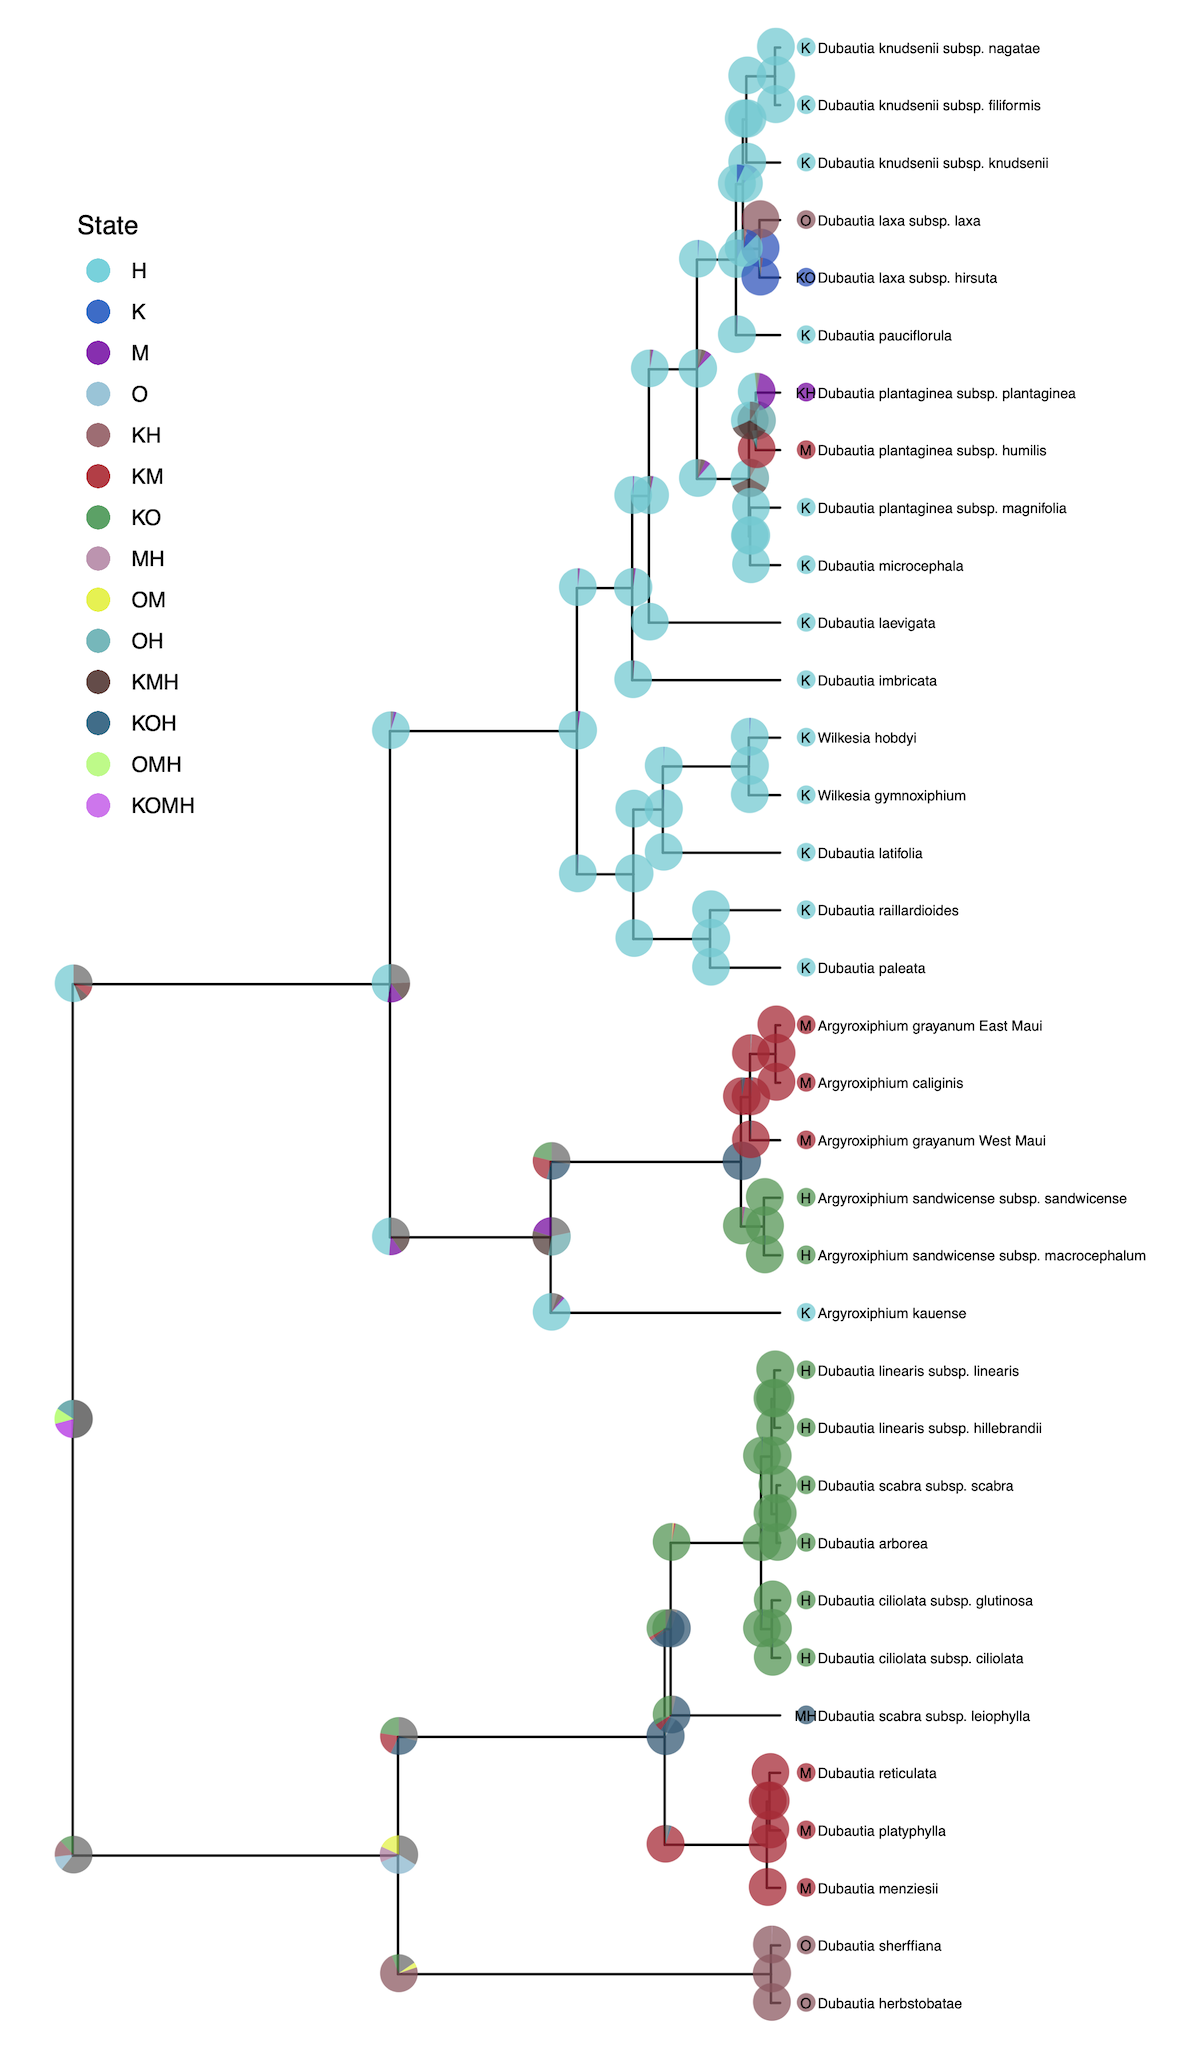
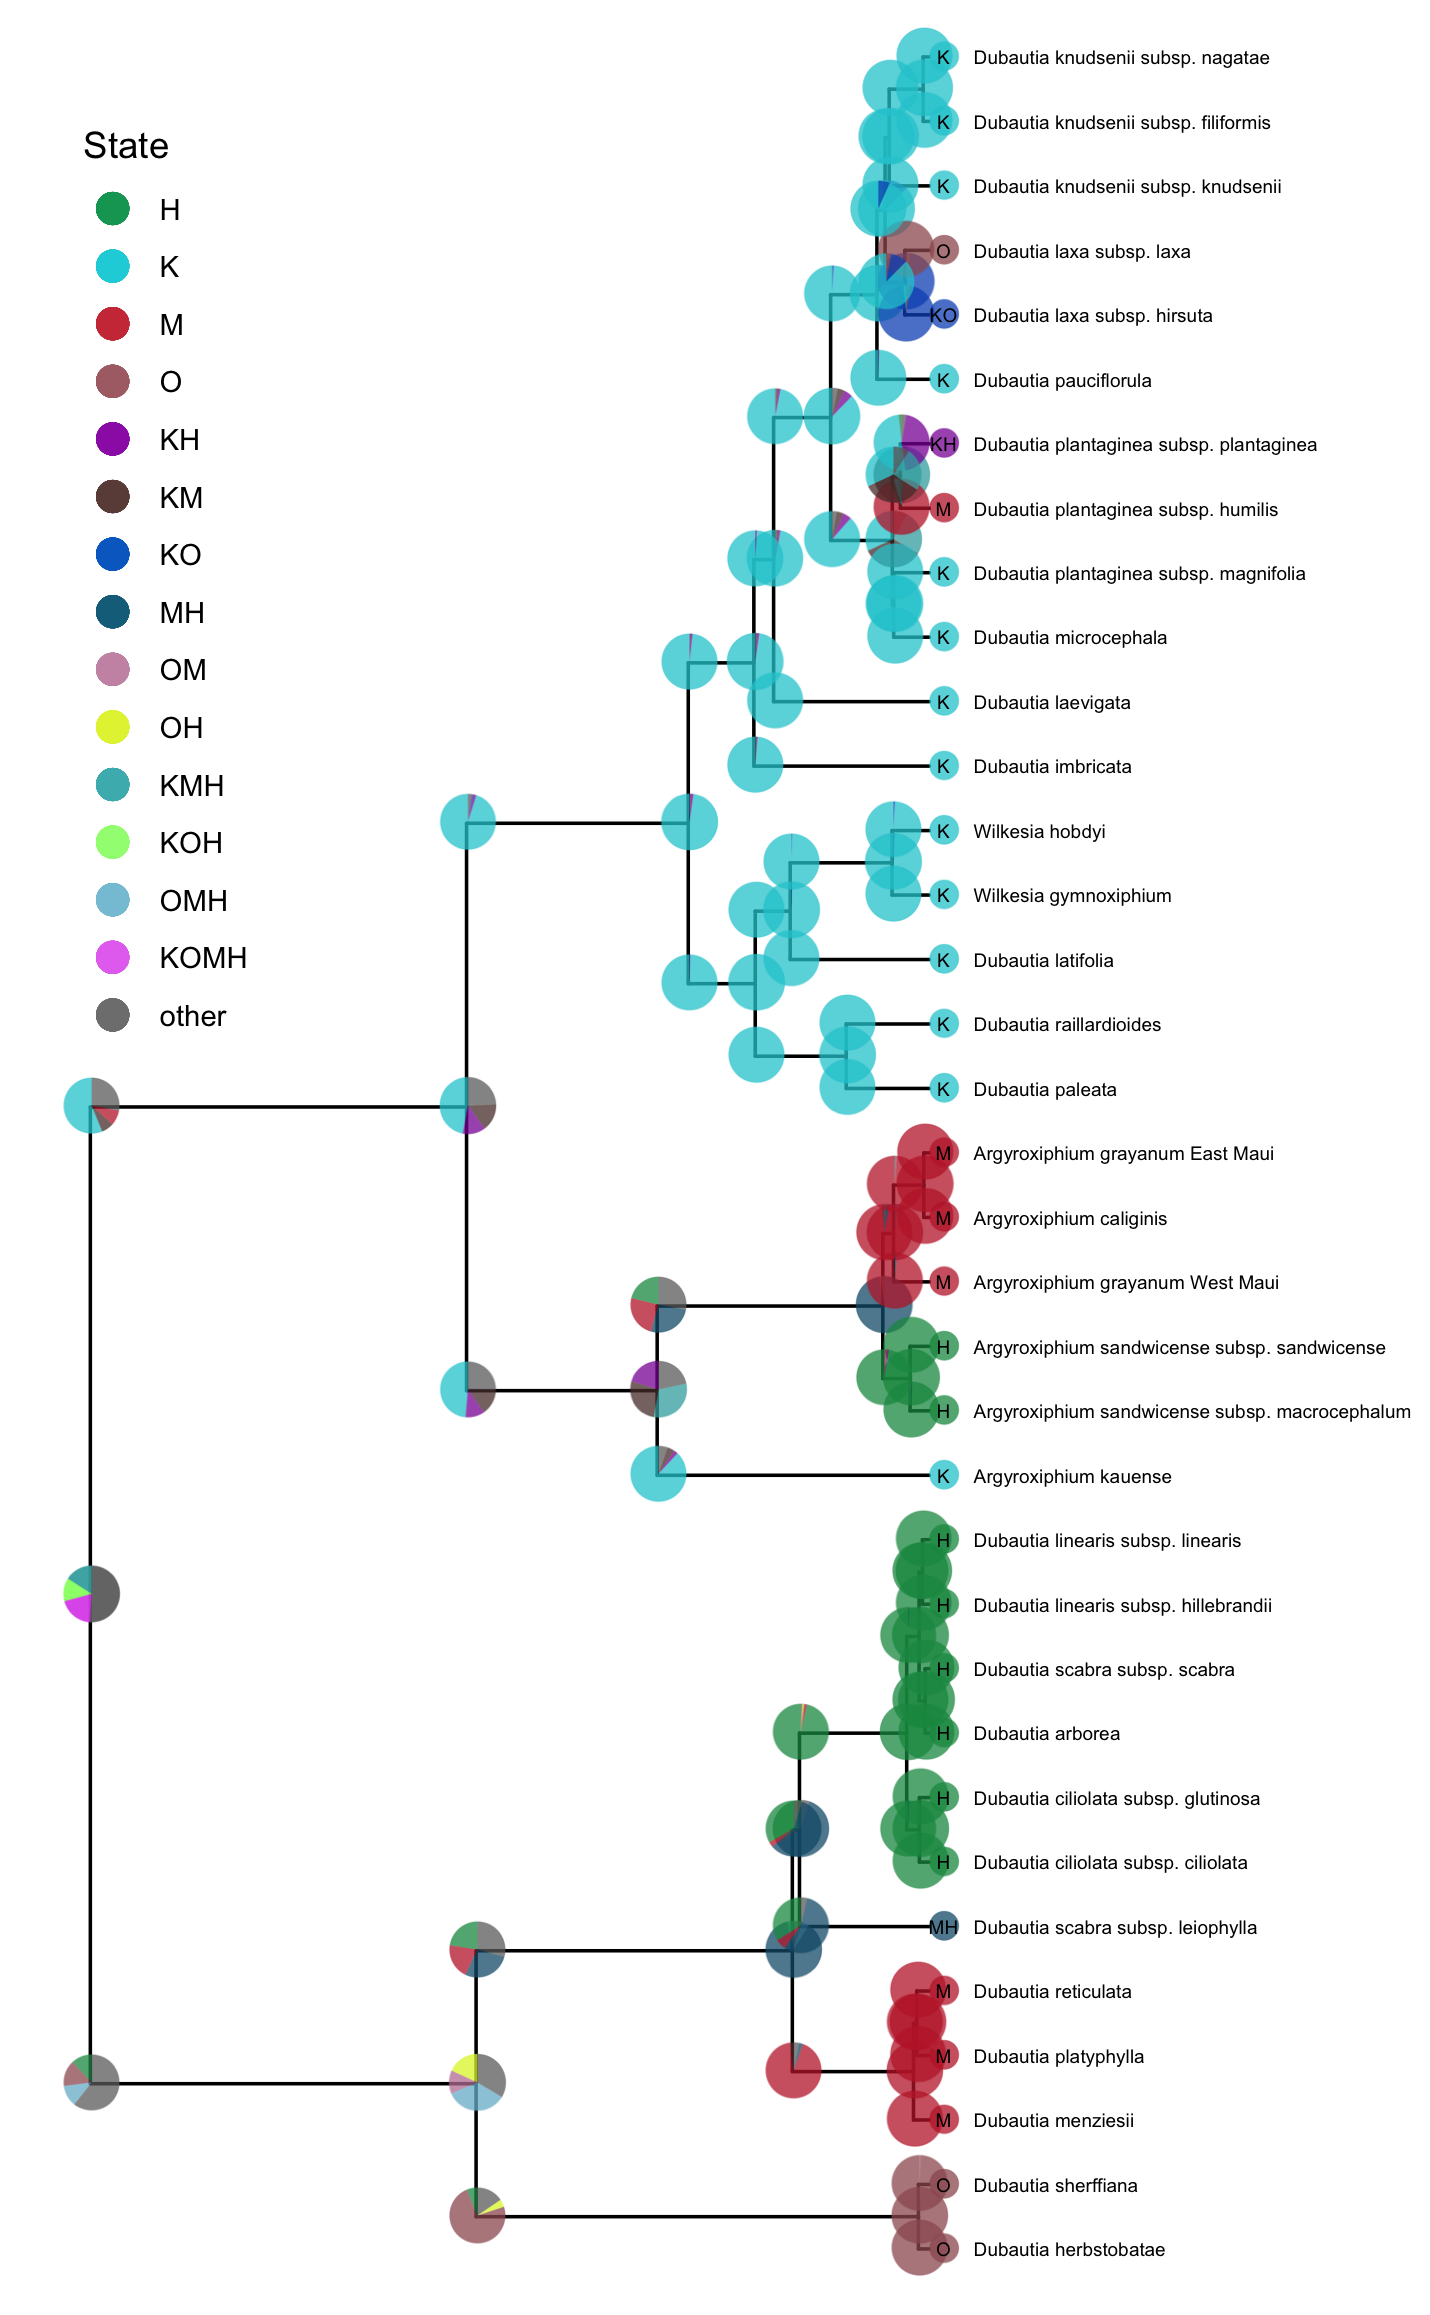
updating for changes in revgadgets

Changed region(s): [[0.0308, 0.0, 0.9867, 0.9956], [0.3083, 0.3422, 0.37, 0.6223], [0.4317, 0.5289, 0.4933, 0.6534]]

diff --git a/tutorials/intro/revgadgets.md b/tutorials/intro/revgadgets.md
@@ -113,9 +113,10 @@ The output of `readTrace()` may be passed to `R` packages specializing in MCMC d
 For example:
 ```R
 # assess convergence with coda 
-trace_quant_MCMC <- coda::as.mcmc(trace_quant[[1]])
-coda::effectiveSize(trace_quant_MCMC)
-coda::traceplot(trace_quant_MCMC)
+library(coda)
+trace_quant_MCMC <- as.mcmc(trace_quant[[1]])
+effectiveSize(trace_quant_MCMC)
+traceplot(trace_quant_MCMC)
 ```
 
 Alternatively, use the `R` package `convenience` (described here: {% page_ref convergence %}) to assess convergence before processing the data with `RevGadgets`. 
@@ -148,9 +149,9 @@ $`pi[4]`$trace_1
 
 ```
 
-Then plot these distributions:
+Then plot these distributions. `plotTrace()` produces a list of ggplot2 objects, with multiple plots if there are multiple runs in the trace object or if you provide a mix of quantitative and qualitative parameters. Here, only one plot is produced. 
 ```R
-plotTrace(trace = trace_quant, vars = c("pi[1]","pi[2]","pi[3]","pi[4]"))
+plotTrace(trace = trace_quant, vars = c("pi[1]","pi[2]","pi[3]","pi[4]"))[[1]]
 ```
 
 {% figure %}
@@ -187,7 +188,7 @@ Then plot the distributions as histograms:
 ```R
 plotTrace(trace = trace_qual, 
           vars = c("prob_rate_12", "prob_rate_13",
-                   "prob_rate_31", "prob_rate_32"))
+                   "prob_rate_31", "prob_rate_32"))[[1]]
 ```
 
 {% figure %}
@@ -220,16 +221,24 @@ tree <- readTrees(paths = file)
 ```
 `rerootPhylo()` roots the tree and `plotTree()` produces a basic tree plot, which may be modified by changing the formatting of tip labels, adjusting tree line width, and adding posterior probabilities of nodes as internal node labels. This plot object is modifiable in the same way as `ggplot`. Here, we add a scale bar: 
 ```R
+# reroot the tree with Galeopterus variegatus 
+# you can also specify multiple tips to reroot using a clade
 tree_rooted <- rerootPhylo(tree = tree, outgroup = "Galeopterus_variegatus")
 
+# create the plot of the rooted tree
 plot <- plotTree(tree = tree_rooted,
+                 # label nodes the with posterior probabilities
 	             node_labels = "posterior", 
+                 # offset the node labels from the nodes
                  node_labels_offset = 0.005,
-				 node_labels_size = 3, 
+                 # make tree lines more narrow
                  line_width = 0.5,
+                 # italicize tip labels 
 				 tip_labels_italics = TRUE)
 
-plot + ggtree::geom_treescale(x = -0.35, y = -1)
+# add scale bar to the tree and plot
+library(ggtree)
+plot + geom_treescale(x = -0.35, y = -1)
 ```
 
 {% figure %}
@@ -247,18 +256,24 @@ RevGadgets elaborates on the `plotTree` to plot fossilized birth death analyses,
 
 ```R
 file <- "data/bears.mcc.tre"
+
+# read in the tree 
 tree <- readTrees(paths = file)
-plot <- plotFBDTree(tree = tree, 
-                    timeline = TRUE, 
-                    geo_units = "epochs",
-                    tip_labels_italics = TRUE,
-                    tip_labels_remove_underscore = TRUE,
-                    tip_labels_size = 3, 
-                    tip_age_bars = TRUE,
-                    node_age_bars = TRUE, 
-                    age_bars_colored_by = "posterior",
-                    label_sampled_ancs = TRUE) + 
-            theme(legend.position=c(.05, .6))
+
+# plot the FBD tree
+plotFBDTree(tree = tree, 
+          timeline = T, 
+          geo_units = "epochs",
+          tip_labels_italics = T,
+          tip_labels_remove_underscore = T,
+          tip_labels_size = 3, 
+          tip_age_bars = T,
+          node_age_bars = T, 
+          age_bars_colored_by = "posterior",
+          label_sampled_ancs = TRUE) + 
+    # move the legend and make the legend background transparent
+    theme(legend.position=c(.05, .6),
+          legend.background = element_rect(fill="transparent"))
 ```
 
 {% figure %}
@@ -278,11 +293,19 @@ The `plotTree()` function can color the branches of the tree, which is useful fo
 
 ```R
 file <- "data/relaxed_OU_MAP.tre"
+
+# read in the tree
 tree <- readTrees(paths = file)
+
+# plot the tree with rates
 plotTree(tree = tree, 
+         # italicize tip labels
          tip_labels_italics = FALSE,
+         # specify variable to color branches
          color_branch_by = "branch_thetas", 
+         # thicken the tree lines
          line_width = 1.7) + 
+    # move the legend
     theme(legend.position=c(.1, .9))
 ```
 
@@ -310,13 +333,21 @@ To plot the output of an ancestral state estimation of placenta type across mode
 
 ```R
 file <- "data/ase_freeK.tree"
-freeK <- processAncStates(file, 
+
+# process the ancestral states
+freeK <- processAncStates(file,
+                          # Specify state labels. 
+                          # These numbers correspond to 
+                          # your input data file.
                           state_labels = c("1" = "Epitheliochorial", 
                                            "2" = "Endotheliochorial", 
                                            "3" = "Hemochorial"))
-plot <- plotAncStatesMAP(t = freeK, 
-                         tree_layout = "circular") + 
-            theme(legend.position = c(0.57,0.41))
+
+# produce the plot object, showing MAP states at nodes.
+# color corresponds to state, size to the state's posterior probability
+plotAncStatesMAP(t = freeK, 
+                 tree_layout = "circular") + 
+    theme(legend.position = c(0.57,0.41))
 ```
 
 {% figure %}
@@ -325,10 +356,6 @@ plot <- plotAncStatesMAP(t = freeK,
 Ancestral-state estimates of mammalian placental under an asymmetric model of character evolution. Symbol colors correspond to the state with the highest posterior probability at that node; the size of the symbol is proportional to the posterior probability of that state.
 {% endfigcaption %}
 {% endfigure %}
-
-<!-- 
-Let's add an example of pie charts under an anagenetic model
- -->
 
 Cladogenetic models
 -------------------------------------------
@@ -339,6 +366,8 @@ However, cladogenetic models allow for two ways that character states can change
 To remedy this problem `RevGadgets` plots the results of inferences using cladogenetic models on "shoulders" as well as the nodes.
 
 For example, many biogeographic models, including the popular Dispersal-Extirpation-Cladogenesis model described in {% page_ref biogeo/biogeo_intro %}, include cladogenetic change. 
+
+
 `plotAncStatesPie()` is a special case of `plotAncStatesMAP()` where the symbols at nodes are pie charts of the most probable states for that node plus an "other" category of any remaining probability.
 We demonstrate this functionality with a visualization of the ancestral ranges of Hawaiian silverswords estimated using a DEC biogeographic analysis and include shoulder states to indicate cladogenetic as well as anagenetic changes. 
 Because of the large number of states in this analysis (15 possible ranges and one "other" category), more pre-plotting processing is necessary.
@@ -346,12 +375,18 @@ We pass the appropriate ancestral area names to`processAncStates()` and specify 
 To plot the ancestral states, we provide the processed data, specify that the data are "cladogenetic", add text labels to the tips specifying the character state, and modify sizes and horizontal positions for aesthetics.
 We also modify the order at which states appear in the legend and the legend position.
 
-<!-- 
-Let's add comments to this code
- -->
-
 ```R
 file <- "data/simple.ase.tre"
+
+# Create the labels vector.
+# This is a named vector where names correspond 
+# to the computer-readable numbers generated 
+# in the biogeographic analysis and the values 
+# are character strings of whatever you'd like 
+# as labels on the figure. The state.labels.txt
+# file produced in the analysis links the 
+# computer-readable numbers with presence/ absence
+# data for individual ranges.
 
 labs <- c("1" = "K", "2" = "O", 
           "3" = "M",  "4" = "H", 
@@ -361,36 +396,78 @@ labs <- c("1" = "K", "2" = "O",
           "11" = "KOM", "12" = "KOH", 
           "13" = "KMH", "14" = "OMH", 
           "15" = "KOMH")
+# pass the labels vector and file name to the processing script
+dec_example <- processAncStates(file, state_labels = labs)
 
-dec_example <- processAncStatesDiscrete(file, state_labels = labs)
-
+# Generate a custom color palette. Here we get the number of 
+# states in our data from dec_example@state_labels (this may
+# be different from the length of the labs vector if not all
+# states are included in the annotated tree).
 ncol <- length(dec_example@state_labels)
+
+# We use colorRampPalette() to generate a function that will
+# expand the RevGadgets color palette (colFun) to the necessary
+# number of colors, but you can use any colors you like as long 
+# as each state_label has a color. 
 colors <- colorRampPalette(colFun(12))(ncol)
+
+# Name the color vector with your state labels and then order 
+# it in the order you'd like the ranges to appear in your legend.
+# Otherwise, they will appear alphabetically. 
 names(colors) <- dec_example@state_labels
+colors <- colors[c(6,1,4,3,
+                   9,5,2,7,
+                   10,13,12,
+                   14,11,8)]
 
-ordered_labels <- names(colors)[c(6,1,4,3,
-                                  9,5,2,7,
-                                  10,13,12,
-                                  14,11,8,15)]
+# Plot the results with pies at nodes
+pie <- plotAncStatesPie(t = dec_example,
+                        # Include cladogenetic events
+                        cladogenetic = TRUE, 
+                        # Add text labels to the tip pie symbols
+                        tip_labels_states = TRUE,
+                        # Offset those text labels slightly
+                        tip_labels_states_offset = .05,
+                        # Pass in your named and ordered color vector
+                        pie_colors = colors, 
+                        # Offset the tip labels to make room for tip pies
+                        tip_labels_offset = .2, 
+                        # Move tip pies right slightly 
+                        tip_pie_nudge_x = .07,
+                        # Change the size of node and tip pies  
+                        tip_pie_size = 0.8,
+                        node_pie_size = 1.5) +
+  # Move the legend 
+  theme(legend.position = c(0.1, 0.75))
+```
 
-plotAncStatesPie(t = dec_example,
-                 cladogenetic = TRUE, 
-                 tip_labels_states = TRUE,
-                 pie_colors = colors, 
-                 tip_labels_offset = .2, 
-                 tip_pie_nudge_x = -.15, 
-                 node_pie_size = 1.2, 
-                 tip_pie_size = 0.12, 
-                 tip_labels_states_offset = .05) +
-        theme(legend.position = c(0.1, 0.75)) +
-        scale_color_manual(values = c(colors, "grey"), 
-                           breaks = ordered_labels)
+`plotAncStatesMAP()` can also plot cladogenetic models. The `plotAncStatesMAP()` function can plot the same processed output `dec_example` using the same color vector. 
+
+```R
+map <- plotAncStatesMAP(t = dec_example, 
+                        # Include cladogenetic events
+                        cladogenetic = T,
+                        # Pass in the same color vector
+                        node_color = colors,
+                        # adjust tip labels 
+                        tip_labels_offset = 0.1,
+                        # increase tip states symbol size
+                        tip_states_size = 3) +
+  # adjust legend position and remove color guide
+  theme(legend.position = c(0.2, 0.87)) + 
+  guides(color = FALSE)
+```
+
+Compare the two plots side by side using the `gridExtra` package:
+```R
+library(gridExtra)
+grid.arrange(pie,map, ncol = 2)
 ```
 
 {% figure %}
-<img src="figures/ancStatesPie.png" height="50%" width="50%"/>
+<img src="figures/clado_example.png" height="80%" width="80%"/>
 {% figcaption %}
-Ancestral-state estimates of biogeographic area of the Hawaiian silverswords. Pies represent the posterior probability of each state at the node; pies at the branching event correspond to the state of the ancestor immediately before the branching event, and pies on the "shoulders" of the two descendant branches are the states of the two descendants immediately after the branching event.
+Two visualizations of ancestral-state estimates of biogeographic area of the Hawaiian silverswords. On the left, pies represent the posterior probability of each state at the node; pies at the branching event correspond to the state of the ancestor immediately before the branching event, and pies on the "shoulders" of the two descendant branches are the states of the two descendants immediately after the branching event. On the right, symbols at the nodes and shoulders are colored by state and sized by posterior probability.
 {% endfigcaption %}
 {% endfigure %}
 
@@ -433,10 +510,7 @@ The ancestral state estimates may be plotted similarly to in the ancestral state
 ```R
 bisse_anc_states_file <- "data/anc_states_primates_BiSSE_activity_period_results.tree"
 panc <- processAncStates(path = bisse_anc_states_file)
-plotAncStatesMAP(panc, tree_layout = "circular") +
-  scale_color_manual(values=colFun(2), breaks = c("A", "B"), name = "State") +
-  scale_size_continuous(name = "State posterior")
-
+plotAncStatesMAP(panc, tree_layout = "circular")
 ```
 {% figure %}
 <img src="figures/bisse_anc_states.png" height="75%" width="75%"/>
@@ -454,7 +528,7 @@ To examine diversification rate variation across the branches of the tree (descr
 Those rates can be plotted by reading in the tree and rate log files, associated the rates with the phylogeny (using `processBranchData()`), and plotting the rate of interest by coloring the branches of the phylogeny. 
 
 ```R
-ranch_specific_file <- "data/primates_BDS_rates.log"
+branch_specific_file <- "data/primates_BDS_rates.log"
 branch_specific_tree_file <- "data/primates_tree.nex"
 
 rates <- readTrace(branch_specific_file)
